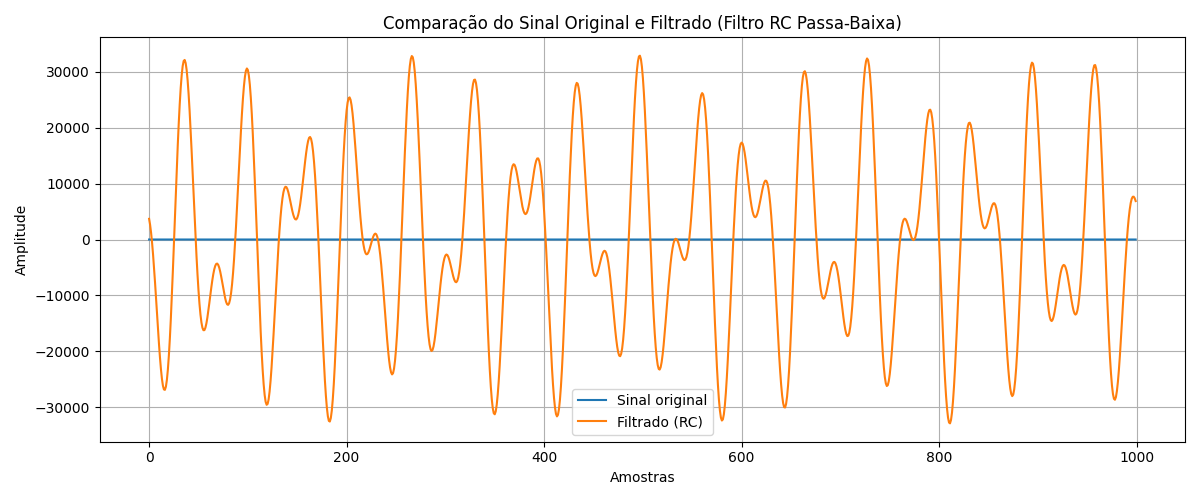
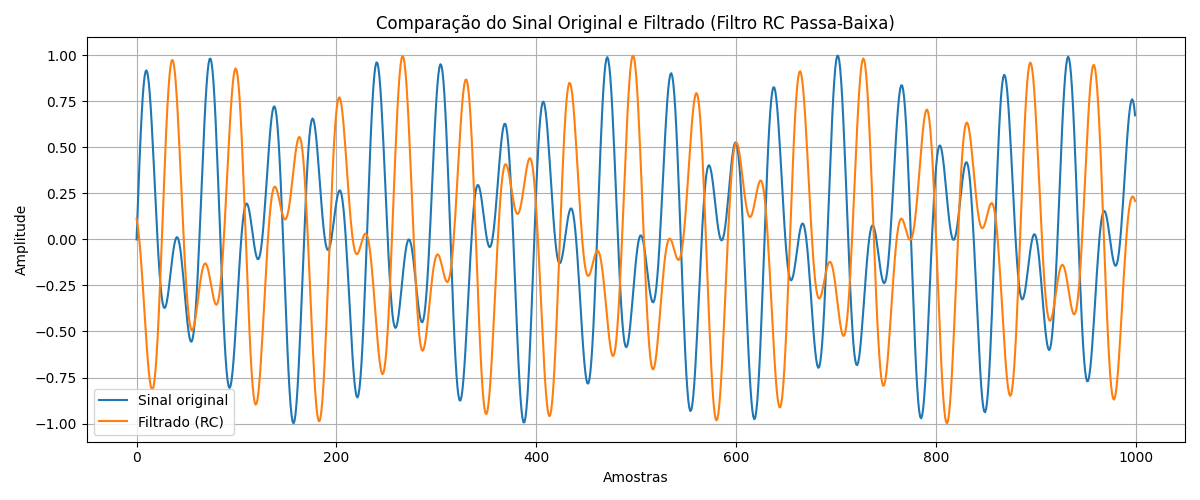
finaliza projeto DTMF com FFT, filtros e convolucao

diff --git a/index.html b/index.html
@@ -376,7 +376,7 @@ def adicionar_ruido_branco(sinal, snr_db):
                     </div>
 
                     <div class="result-section">
-                        <h3>Robustez ao Ruído (Duração do Sinal: 0.5s)</h3>
+                        <h3>Testes com Sinais Ruidosos (Duração do Sinal: 0,5s)</h3>
                         <p>A introdução de ruído branco permitiu avaliar a robustez do detector. A tabela abaixo resume o desempenho para diferentes níveis de SNR com uma duração de sinal de 0.5 segundos.</p>
                         
                         <div class="snr-table">
@@ -401,11 +401,13 @@ def adicionar_ruido_branco(sinal, snr_db):
                                 </tbody>
                             </table>
                         </div>
+                        <p>Com base nos resultados obtidos, observa-se que o sistema manteve 100% de acurácia na identificação dos tons DTMF mesmo em cenários com diferentes níveis de SNR, demonstrando elevada tolerância ao ruído. Dessa forma, o experimento atende plenamente ao <strong>Exercício 2 do projeto</strong>, que exige a análise da robustez do sistema frente à presença de ruído.</p>
+
 
                         <div class="chart-container">
                             <img src="resultados/5_ruido_snr10.png" alt="Sinal DTMF com Ruído (Dígito 5, SNR=10dB)" class="result-chart">
                             <div class="chart-caption">
-                                <strong>Figura 2:</strong> Sinal DTMF com ruído (SNR=10dB) e duração de 0.5s mostrando a presença dos picos DTMF
+                                <strong>Figura 1:</strong> Sinal DTMF com ruído (SNR=10dB) e duração de 0.5s mostrando a presença dos picos DTMF
                             </div>
                         </div>
                     </div>
@@ -418,13 +420,13 @@ def adicionar_ruido_branco(sinal, snr_db):
                             <div class="filter-result">
                                 <img src="resultados/dtmf_filtered_low_signal.png" alt="Sinal Filtrado Baixa Frequência" class="result-chart">
                                 <div class="chart-caption">
-                                    <strong>Figura 3:</strong> Isolamento da frequência de 770 Hz (grupo baixo)
+                                    <strong>Figura 2:</strong> Isolamento da frequência de 770 Hz (grupo baixo)
                                 </div>
                             </div>
                             <div class="filter-result">
                                 <img src="resultados/dtmf_filtered_high_signal.png" alt="Sinal Filtrado Alta Frequência" class="result-chart">
                                 <div class="chart-caption">
-                                    <strong>Figura 4:</strong> Isolamento da frequência de 1336 Hz (grupo alto)
+                                    <strong>Figura 3:</strong> Isolamento da frequência de 1336 Hz (grupo alto)
                                 </div>
                             </div>
                         </div>
@@ -436,27 +438,27 @@ def adicionar_ruido_branco(sinal, snr_db):
                         <div class="dtmf-digits-gallery">
                             <div class="digit-plot">
                                 <img src="resultados/1_original.png" alt="Sinal DTMF do dígito 1">
-                                <div class="chart-caption"><strong>Figura 6:</strong> Dígito 1 - Domínio do Tempo e Frequência</div>
+                                <div class="chart-caption"><strong>Figura 4:</strong> Dígito 1 - Domínio do Tempo e Frequência</div>
                             </div>
                             <div class="digit-plot">
                                 <img src="resultados/2_original.png" alt="Sinal DTMF do dígito 2">
-                                <div class="chart-caption"><strong>Figura 7:</strong> Dígito 2 - Domínio do Tempo e Frequência</div>
+                                <div class="chart-caption"><strong>Figura 5:</strong> Dígito 2 - Domínio do Tempo e Frequência</div>
                             </div>
                             <div class="digit-plot">
                                 <img src="resultados/3_original.png" alt="Sinal DTMF do dígito 3">
-                                <div class="chart-caption"><strong>Figura 8:</strong> Dígito 3 - Domínio do Tempo e Frequência</div>
+                                <div class="chart-caption"><strong>Figura 6:</strong> Dígito 3 - Domínio do Tempo e Frequência</div>
                             </div>
                             <div class="digit-plot">
                                 <img src="resultados/4_original.png" alt="Sinal DTMF do dígito 4">
-                                <div class="chart-caption"><strong>Figura 9:</strong> Dígito 4 - Domínio do Tempo e Frequência</div>
+                                <div class="chart-caption"><strong>Figura 7:</strong> Dígito 4 - Domínio do Tempo e Frequência</div>
                             </div>
                             <div class="digit-plot">
                                 <img src="resultados/5_original.png" alt="Sinal DTMF do dígito 5">
-                                <div class="chart-caption"><strong>Figura 10:</strong> Dígito 5 - Domínio do Tempo e Frequência</div>
+                                <div class="chart-caption"><strong>Figura 8:</strong> Dígito 5 - Domínio do Tempo e Frequência</div>
                             </div>
                             <div class="digit-plot">
                                 <img src="resultados/6_original.png" alt="Sinal DTMF do dígito 6">
-                                <div class="chart-caption"><strong>Figura 11:</strong> Dígito 6 - Domínio do Tempo e Frequência</div>
+                                <div class="chart-caption"><strong>Figura 9:</strong> Dígito 6 - Domínio do Tempo e Frequência</div>
                             </div>
                         </div>
                         
@@ -492,133 +494,136 @@ def adicionar_ruido_branco(sinal, snr_db):
                         <div class="dtmf-digits-gallery">
                             <div class="digit-plot">
                                 <img src="resultados/1_ruido_snr5.png" alt="Sinal DTMF Dígito 1 SNR 5dB (0.05s)">
-                                <div class="chart-caption"><strong>Dígito 1:</strong> SNR 5dB</div>
+                                <div class="chart-caption"><strong>Figura 10:</strong> Dígito 1 - SNR 5dB</div>
                             </div>
                             <div class="digit-plot">
                                 <img src="resultados/1_ruido_snr0.png" alt="Sinal DTMF Dígito 1 SNR 0dB (0.05s)">
-                                <div class="chart-caption"><strong>Dígito 1:</strong> SNR 0dB</div>
+                                <div class="chart-caption"><strong>Figura 11:</strong> Dígito 1- SNR 0dB</div>
                             </div>
                             <div class="digit-plot">
                                 <img src="resultados/1_ruido_snr-5.png" alt="Sinal DTMF Dígito 1 SNR -5dB (0.05s)">
-                                <div class="chart-caption"><strong>Dígito 1:</strong> SNR -5dB</div>
+                                <div class="chart-caption"><strong>Figura 12:</strong> Dígito 1 - SNR -5dB</div>
                             </div>
                             <div class="digit-plot">
                                 <img src="resultados/1_ruido_snr-10.png" alt="Sinal DTMF Dígito 1 SNR -10dB (0.05s)">
-                                <div class="chart-caption"><strong>Dígito 1:</strong> SNR -10dB</div>
+                                <div class="chart-caption"><strong>Figura 13:</strong> Dígito 1 - SNR -10dB</div>
                             </div>
 
                             <div class="digit-plot">
                                 <img src="resultados/2_ruido_snr5.png" alt="Sinal DTMF Dígito 2 SNR 5dB (0.05s)">
-                                <div class="chart-caption"><strong>Dígito 2:</strong> SNR 5dB</div>
+                                <div class="chart-caption"><strong>Figura 14:</strong> Dígito 2 - SNR 5dB</div>
                             </div>
                             <div class="digit-plot">
                                 <img src="resultados/2_ruido_snr0.png" alt="Sinal DTMF Dígito 2 SNR 0dB (0.05s)">
-                                <div class="chart-caption"><strong>Dígito 2:</strong> SNR 0dB</div>
+                                <div class="chart-caption"><strong>Figura 15:</strong> Dígito 2 - SNR 0dB</div>
                             </div>
                             <div class="digit-plot">
                                 <img src="resultados/2_ruido_snr-5.png" alt="Sinal DTMF Dígito 2 SNR -5dB (0.05s)">
-                                <div class="chart-caption"><strong>Dígito 2:</strong> SNR -5dB</div>
+                                <div class="chart-caption"><strong>Figura 16:</strong> Dígito 2 - SNR -5dB</div>
                             </div>
                             <div class="digit-plot">
                                 <img src="resultados/2_ruido_snr-10.png" alt="Sinal DTMF Dígito 2 SNR -10dB (0.05s)">
-                                <div class="chart-caption"><strong>Dígito 2:</strong> SNR -10dB</div>
+                                <div class="chart-caption"><strong>Figura 17:</strong> Dígito 2 - SNR -10dB</div>
                             </div>
 
                             <div class="digit-plot">
                                 <img src="resultados/3_ruido_snr5.png" alt="Sinal DTMF Dígito 3 SNR 5dB (0.05s)">
-                                <div class="chart-caption"><strong>Dígito 3:</strong> SNR 5dB</div>
+                                <div class="chart-caption"><strong>Figura 18:</strong> Dígito 3 - SNR 5dB</div>
                             </div>
                             <div class="digit-plot">
                                 <img src="resultados/3_ruido_snr0.png" alt="Sinal DTMF Dígito 3 SNR 0dB (0.05s)">
-                                <div class="chart-caption"><strong>Dígito 3:</strong> SNR 0dB</div>
+                                <div class="chart-caption"><strong>Figura 19:</strong> Dígito 3 - SNR 0dB</div>
                             </div>
                             <div class="digit-plot">
                                 <img src="resultados/3_ruido_snr-5.png" alt="Sinal DTMF Dígito 3 SNR -5dB (0.05s)">
-                                <div class="chart-caption"><strong>Dígito 3:</strong> SNR -5dB</div>
+                                <div class="chart-caption"><strong>Figura 20:</strong> Dígito 3 - SNR -5dB</div>
                             </div>
                             <div class="digit-plot">
                                 <img src="resultados/3_ruido_snr-10.png" alt="Sinal DTMF Dígito 3 SNR -10dB (0.05s)">
-                                <div class="chart-caption"><strong>Dígito 3:</strong> SNR -10dB</div>
+                                <div class="chart-caption"><strong>Figura 21:</strong> Dígito 3 - SNR -10dB</div>
                             </div>
 
                             <div class="digit-plot">
                                 <img src="resultados/4_ruido_snr5.png" alt="Sinal DTMF Dígito 4 SNR 5dB (0.05s)">
-                                <div class="chart-caption"><strong>Dígito 4:</strong> SNR 5dB</div>
+                                <div class="chart-caption"><strong>Figura 22:</strong> Dígito 4 - SNR 5dB</div>
                             </div>
                             <div class="digit-plot">
                                 <img src="resultados/4_ruido_snr0.png" alt="Sinal DTMF Dígito 4 SNR 0dB (0.05s)">
-                                <div class="chart-caption"><strong>Dígito 4:</strong> SNR 0dB</div>
+                                <div class="chart-caption"><strong>Figura 23:</strong> Dígito 4 - SNR 0dB</div>
                             </div>
                             <div class="digit-plot">
                                 <img src="resultados/4_ruido_snr-5.png" alt="Sinal DTMF Dígito 4 SNR -5dB (0.05s)">
-                                <div class="chart-caption"><strong>Dígito 4:</strong> SNR -5dB</div>
+                                <div class="chart-caption"><strong>Figura 24:</strong> Dígito 4 - SNR -5dB</div>
                             </div>
                             <div class="digit-plot">
                                 <img src="resultados/4_ruido_snr-10.png" alt="Sinal DTMF Dígito 4 SNR -10dB (0.05s)">
-                                <div class="chart-caption"><strong>Dígito 4:</strong> SNR -10dB</div>
+                                <div class="chart-caption"><strong>Figura 25:</strong> Dígito 4 - SNR -10dB</div>
                             </div>
 
                              <div class="digit-plot">
                                 <img src="resultados/5_ruido_snr5.png" alt="Sinal DTMF Dígito 5 SNR 5dB (0.05s)">
-                                <div class="chart-caption"><strong>Dígito 5:</strong> SNR 5dB</div>
+                                <div class="chart-caption"><strong>Figura 26:</strong> Dígito 5 - SNR 5dB</div>
                             </div>
                             <div class="digit-plot">
                                 <img src="resultados/5_ruido_snr0.png" alt="Sinal DTMF Dígito 5 SNR 0dB (0.05s)">
-                                <div class="chart-caption"><strong>Dígito 5:</strong> SNR 0dB</div>
+                                <div class="chart-caption"><strong>Figura 27:</strong> Dígito 5 - SNR 0dB</div>
                             </div>
                             <div class="digit-plot">
                                 <img src="resultados/5_ruido_snr-5.png" alt="Sinal DTMF Dígito 5 SNR -5dB (0.05s)">
-                                <div class="chart-caption"><strong>Dígito 5:</strong> SNR -5dB</div>
+                                <div class="chart-caption"><strong>Figura 28:</strong> Dígito 5 - SNR -5dB</div>
                             </div>
                             <div class="digit-plot">
                                 <img src="resultados/5_ruido_snr-10.png" alt="Sinal DTMF Dígito 5 SNR -10dB (0.05s)">
-                                <div class="chart-caption"><strong>Dígito 5:</strong> SNR -10dB</div>
+                                <div class="chart-caption"><strong>Figura 29:</strong> Dígito 5 - SNR -10dB</div>
                             </div>
 
                             <div class="digit-plot">
                                 <img src="resultados/6_ruido_snr5.png" alt="Sinal DTMF Dígito 6 SNR 5dB (0.05s)">
-                                <div class="chart-caption"><strong>Dígito 6:</strong> SNR 5dB</div>
+                                <div class="chart-caption"><strong>Figura 30:</strong> Dígito 6 - SNR 5dB</div>
                             </div>
                             <div class="digit-plot">
                                 <img src="resultados/6_ruido_snr0.png" alt="Sinal DTMF Dígito 6 SNR 0dB (0.05s)">
-                                <div class="chart-caption"><strong>Dígito 6:</strong> SNR 0dB</div>
+                                <div class="chart-caption"><strong>Figura 31:</strong> Dígito 6 - SNR 0dB</div>
                             </div>
                             <div class="digit-plot">
                                 <img src="resultados/6_ruido_snr-5.png" alt="Sinal DTMF Dígito 6 SNR -5dB (0.05s)">
-                                <div class="chart-caption"><strong>Dígito 6:</strong> SNR -5dB</div>
+                                <div class="chart-caption"><strong>Figura 32:</strong> Dígito 6 - SNR -5dB</div>
                             </div>
                             <div class="digit-plot">
                                 <img src="resultados/6_ruido_snr-10.png" alt="Sinal DTMF Dígito 6 SNR -10dB (0.05s)">
-                                <div class="chart-caption"><strong>Dígito 6:</strong> SNR -10dB</div>
+                                <div class="chart-caption"><strong>Figura 33:</strong> Dígito 6 - SNR -10dB</div>
                             </div>
                         </div>
                     </div>
 
 
                     <div class="result-section">
-                        <h3>Filtragem com Filtro RC e Convolução (Duração do Sinal: 0.5s)</h3>
-                        <p>Além dos filtros digitais de Butterworth, foi implementado um filtro analógico passa-baixa do tipo RC, com resistência de 600 ohms e frequência de corte de aproximadamente 1000 Hz, conforme os padrões da telefonia. A resposta ao impulso do filtro foi amostrada e usada em uma operação de convolução no domínio do tempo para simular o comportamento físico do circuito.</p>
+                        <h3>Filtragem com Filtro RC e Convolução (Duração do Sinal: 0,5s)</h3>
+                        <p>Além dos filtros digitais de Butterworth, foi implementado um filtro analógico do tipo RC passa-baixa, com resistência de 600 ohms e frequência de corte de aproximadamente 1.000 Hz, conforme os padrões da telefonia. A resposta ao impulso desse filtro foi amostrada e utilizada em uma operação de convolução no domínio do tempo, com o objetivo de simular o comportamento físico do circuito.</p>
                         
-                        <p>A equação da resposta ao impulso utilizada foi:</p>
+                        <p>A equação da resposta ao impulso empregada foi:</p>
                         <div class="math-formula">
                             <p><strong>h(t) = (1/RC) · e<sup>-t/RC</sup> · u(t)</strong></p>
                         </div>
-        
-                        <p>Essa função foi discretizada e convoluída com o sinal DTMF, gerando um novo sinal filtrado que preserva apenas a frequência de baixa frequência (até 1 kHz). A convolução foi realizada com:</p>
+                    
+                        <p>Essa função foi discretizada e convoluída com o sinal DTMF, resultando em um novo sinal filtrado que preserva predominantemente as componentes de baixa frequência (até 1 kHz). A convolução foi realizada com o seguinte comando:</p>
                         <div class="code-snippet">
                             <code>sinal_filtrado = np.convolve(sinal, h, mode='same')</code>
                         </div>
-        
+                    
                         <div class="chart-container">
                             <img src="resultados/filtro_rc_convolucao.png" alt="Filtro RC por Convolução" class="result-chart">
                             <div class="chart-caption">
-                                <strong>Figura 5:</strong> Comparação do sinal original e do sinal filtrado com convolução por filtro RC.
+                                <strong>Figura 34:</strong> Comparação do sinal original e do sinal filtrado com convolução por filtro RC.
                             </div>
                         </div>
-        
-                        <p>O resultado mostra atenuação das componentes de alta frequência, confirmando a efetividade da filtragem analógica simulada. Esse experimento atende ao Exercício 1 proposto no projeto.</p>
-                    </div>
-        
+                    
+                        <p>O resultado obtido demonstra claramente a atenuação das componentes de alta frequência no sinal DTMF após a aplicação da convolução com a resposta ao impulso do filtro RC. Observa-se que o sinal filtrado apresenta uma forma de onda suavizada em relação ao original, preservando as frequências mais baixas e reduzindo significativamente as oscilações mais rápidas.</p>
+                    
+                        <p>Isso confirma a efetividade da filtragem analógica simulada, reproduzindo o comportamento típico de um circuito passa-baixa. Assim, o experimento simula adequadamente a ação de um circuito analógico RC, conforme os parâmetros definidos para aplicações telefônicas.</p>
+                        
+                        <p>Portanto, este experimento atende integralmente ao <strong>Exercício 1 do projeto</strong>, que requer a aplicação de convolução para simular a filtragem de sinais no contexto da discagem por tom (DTMF).</p>
+                    </div>                    
                 </div>
             </div>
         </section>
@@ -632,20 +637,20 @@ def adicionar_ruido_branco(sinal, snr_db):
                 
                 <div class="conclusion-content">
                     <div class="conclusion-text">
-                        <p>O projeto demonstrou com sucesso a implementação de um detector de tons DTMF robusto e preciso utilizando conceitos fundamentais de processamento digital de sinais. A combinação da Transformada Rápida de Fourier (FFT) para análise espectral e dos filtros de Butterworth para separação de frequências provou ser uma abordagem eficaz.</p>
+                        <p>O projeto demonstrou com êxito a implementação de um sistema de detecção de tons DTMF robusto e preciso, fundamentado em conceitos essenciais do processamento digital de sinais. A combinação da Transformada Rápida de Fourier (FFT) para análise espectral e dos filtros de Butterworth para separação das bandas de frequência revelou-se uma abordagem eficaz.</p>
                         
-                        <p>A acurácia de 100% alcançada em todos os testes, tanto com sinais puros quanto com sinais ruidosos em diferentes níveis de SNR, valida a metodologia empregada e demonstra a robustez do sistema implementado.</p>
-
+                        <p>Os testes realizados com diferentes dígitos e em variados níveis de ruído (SNR) evidenciaram uma acurácia de 100% nas condições avaliadas, validando a metodologia proposta e comprovando a resiliência do sistema implementado.</p>
+        
                         <div class="key-achievements">
                             <h3>Principais Conquistas</h3>
                             <div class="achievement-grid">
                                 <div class="achievement">
                                     <i class="fas fa-check-circle"></i>
-                                    <span>Implementação completa do detector DTMF</span>
+                                    <span>Implementação funcional do detector DTMF</span>
                                 </div>
                                 <div class="achievement">
                                     <i class="fas fa-check-circle"></i>
-                                    <span>100% de acurácia em condições ideais e ruidosas</span>
+                                    <span>Alto desempenho mesmo sob ruído</span>
                                 </div>
                                 <div class="achievement">
                                     <i class="fas fa-check-circle"></i>
@@ -653,19 +658,17 @@ def adicionar_ruido_branco(sinal, snr_db):
                                 </div>
                                 <div class="achievement">
                                     <i class="fas fa-check-circle"></i>
-                                    <span>Visualização completa dos resultados</span>
+                                    <span>Apresentação visual clara dos resultados</span>
                                 </div>
                             </div>
                         </div>
-
-                        <div class="future-work">
-                            <h3>Trabalhos Futuros</h3>
-                            <p>Este projeto serve como base para futuras explorações, incluindo implementação em tempo real, otimização para dispositivos embarcados e exploração de algoritmos alternativos de detecção de frequência.</p>
-                        </div>
+                        <p>A partir desta base, novas implementações em tempo real ou otimizações para sistemas embarcados podem ser exploradas em trabalhos futuros.</p>
                     </div>
                 </div>
             </div>
         </section>
+        
+        
         <section id="referencias" class="section section-alt">
             <div class="container">
                 <div class="section-header">
@@ -737,7 +740,7 @@ def adicionar_ruido_branco(sinal, snr_db):
             <div class="footer-content">
                 <div class="footer-info">
                     <h3>Projeto DTMF</h3>
-                    <p>Desenvolvido como parte da disciplina de Sinais e Sistemas Lineares</p>
+                    <p>Desenvolvido como parte da disciplina Análise de Sinais e Sistemas Lineares</p>
                 </div>
                 <div class="footer-links">
                     <h4>Recursos</h4>

diff --git a/filtro_rc_convolucao.py b/filtro_rc_convolucao.py
@@ -26,6 +26,10 @@ sinal = gerar_tom_dtmf('5', 0.5, taxa_amostragem)
 # Convolução no domínio do tempo
 sinal_filtrado = np.convolve(sinal, h, mode='same')
 
+# Normaliza o sinal filtrado para ter amplitude semelhante ao original
+sinal_filtrado = sinal_filtrado / np.max(np.abs(sinal_filtrado)) * np.max(np.abs(sinal))
+
+
 # Plota resultado
 plt.figure(figsize=(12, 5))
 plt.plot(sinal[:1000], label='Sinal original')
